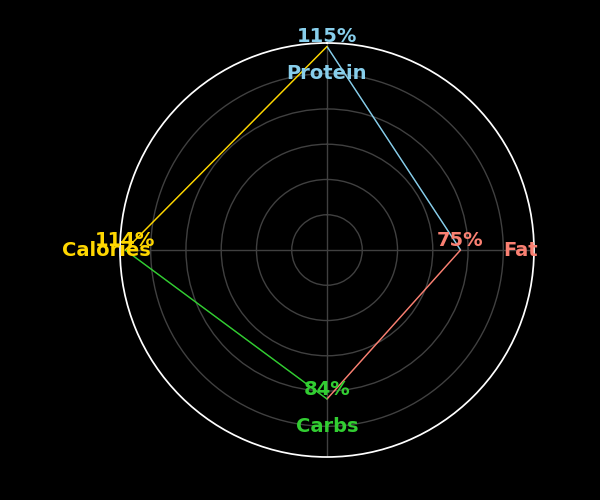
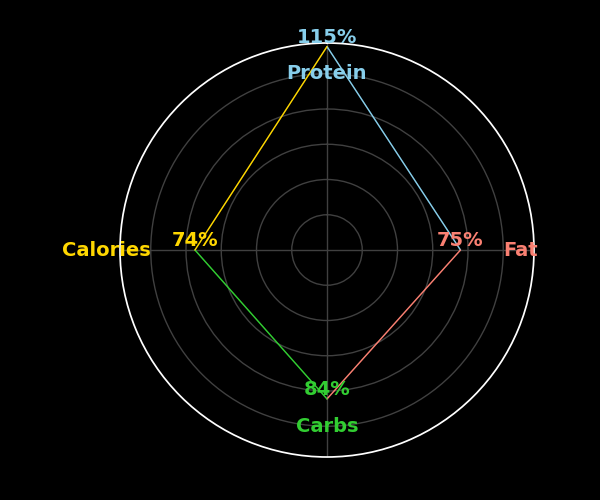
-

diff --git a/utils.py b/utils.py
@@ -66,7 +66,8 @@ def calculate_recommended_values_v2(info):
     height = info['Height']
     age = info['Age']
     gender = info['Gender']
-    workout_days = info['WorkoutDays']
+    workout_days = info.get('WorkoutDays', 0)
+    workoutDifficulty = info.get('WorkoutDifficulty', 1)
     fasting_hours = info.get('FastingHours', 0)  # Default to 0 if not provided
 
     # Using the Mifflin-St Jeor equation for BMR calculation
@@ -78,7 +79,7 @@ def calculate_recommended_values_v2(info):
     # Check if PAL is provided, otherwise calculate based on workout days
     pal = info.get('PAL')
     if pal is None:
-        pal = 1.2 + (workout_days * 0.1)
+        pal = 1.2 + (workout_days * 0.1 * workoutDifficulty)
 
     daily_calories = bmr * pal
 
@@ -89,7 +90,7 @@ def calculate_recommended_values_v2(info):
     else:
         daily_calories -= fasting_hours * 10  # Adjusting for fasting
         
-    daily_calories -= info.get('CalorieAdjustment', 500)
+    daily_calories -= info.get('CalorieAdjustment', 0)
 
     # Protein (using the provided factor, or defaulting to 1.8 if not provided)
     protein_factor = info.get('ProteinFactor', 1.8)
